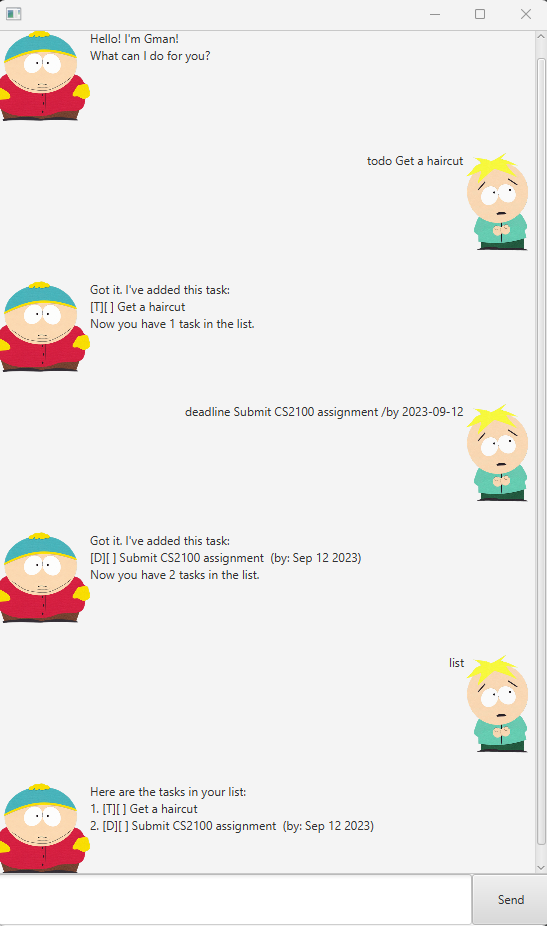
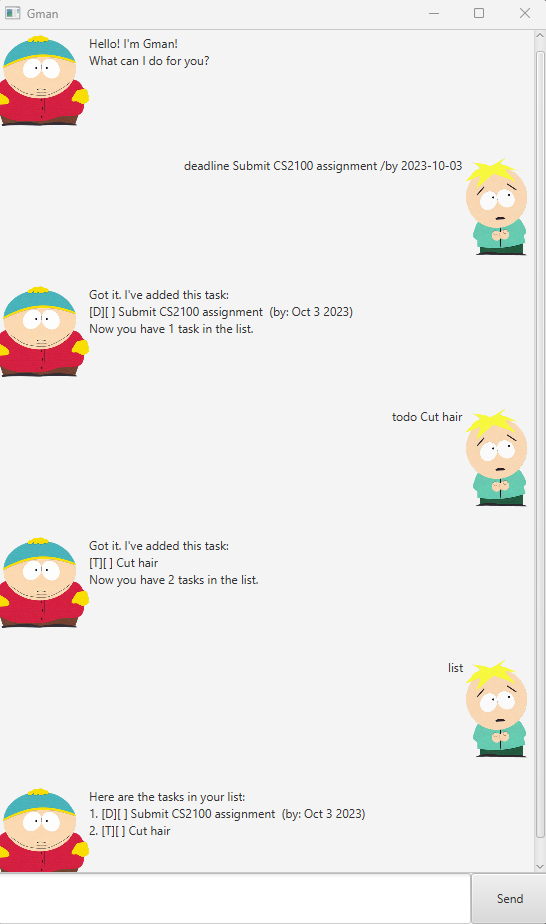
Name Gman GUI, change Ui screenshot

diff --git a/src/main/java/gman/Main.java b/src/main/java/gman/Main.java
@@ -25,6 +25,7 @@ public class Main extends Application {
             Scene scene = new Scene(ap);
             stage.setScene(scene);
             fxmlLoader.<MainWindow>getController().setGman(gman);
+            stage.setTitle("Gman");
             stage.show();
         } catch (IOException e) {
             e.printStackTrace();
